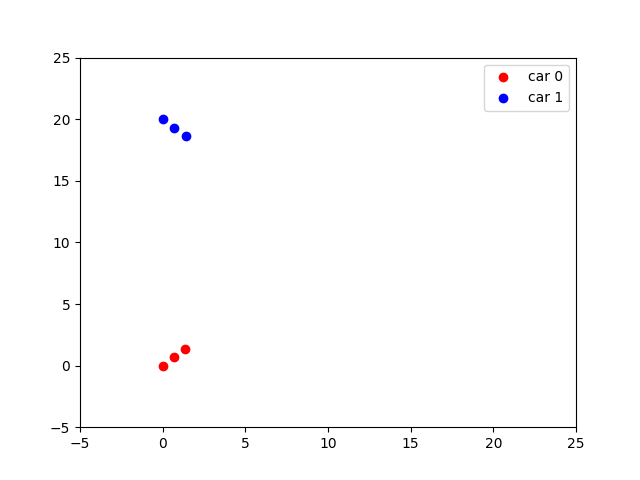
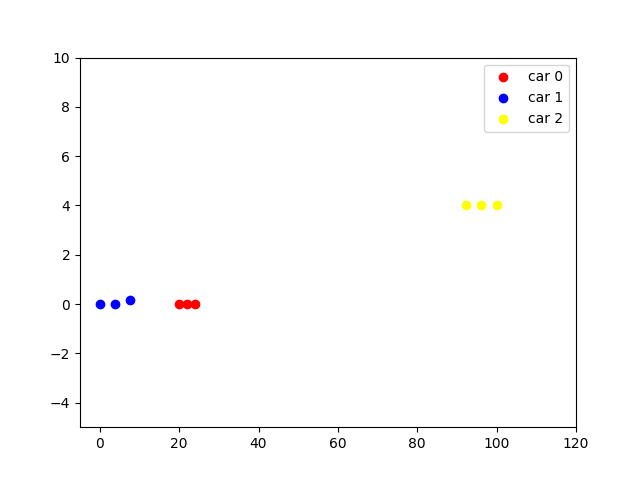
Finished a version of 3 car scenario.

diff --git a/CFS_problem.py b/CFS_problem.py
@@ -2,9 +2,11 @@ import numpy as np
 from numpy import linalg as LA
 
 
-def define_path():
+def define_path(dt):
     '''
     Define initial reference paths for multiple cars.
+    Args:
+        dt: Time step between two path points of a car.
     Return:
         multi_path: Shape: num_cars x nsteps x 2. Paths for number of cars.
     Note:
@@ -13,22 +15,22 @@ def define_path():
     '''
     multi_path = []
     # Define path 0
-    path_seg_0 = np.array([[0, 0], [20, 20]])
-    path_0 = get_path(path_seg_0, 1)
+    path_seg_0 = np.array([[20, 0], [70, 0]])
+    resolution_0 = 2                                     # Resolution indicates nominal speed is resolution/dt (m/s)
+    path_0 = get_path(path_seg_0, resolution_0)          
     multi_path.append(path_0)
     # Define path 1
-    path_seg_1 = np.array([[0, 20], [20, 0]])
-    path_1 = get_path(path_seg_1, 1)
-    # print(path_1.shape)
-    # print(path_1)
+    path_seg_1 = np.array([[0, 0.01], [100, 0.01]])
+    resolution_1 = 4
+    path_1 = get_path(path_seg_1, resolution_1)          # Resolution indicates nominal speed is resolution/dt (m/s)
     multi_path.append(path_1)
 
-    # # Define path 2
-    # path_seg_2 = np.array([[0, 30], [0, 130]])
-    # path_2 = get_path(path_seg_2, 3)
-    # # print(path_2.shape)
-    # # print(path_2)
-    # multi_path.append(path_2)
+    # Define path 2
+    path_seg_2 = np.array([[100, 4], [0, 4]])
+    resolution_2 = 4
+    path_2 = get_path(path_seg_2, resolution_2)
+    multi_path.append(path_2)
+
     # # Define path 3
     # path_seg_3 = np.array([[3.5, 15], [3.5, 115]])
     # path_3 = get_path(path_seg_3, 3)
@@ -108,16 +110,17 @@ def get_path(path_segments_array, resolution):
 
 
 def Setup_problem(multi_path):
-    # nstep = 100;
-    # dim = 4;
-
-    # start_1 = [0, 0];
-    # ending_1 = [200, 0]; 
-
-
-    # start_2 = [100, 0.5];
-    # ending_2 = [100, 0.5];
-    # margin = 0.25; 
+    '''
+    Args:
+        multi_path: Predefined original reference path for multiple cars.
+    Return:
+        Qref: Cost matrix with regard to original reference path.
+        Qabs: Cost matrix with regard to new planned path.
+        nstep: Number of steps.
+        dim: Dimension of reference path. dim = num_cars * 2.
+        oripath: Original path.
+        I_2: 4x4 identical matrix.
+    '''
     I_2 = np.array([[1, 0, -1, 0],
         [0, 1, 0, -1],
         [-1, 0, 1, 0],
@@ -125,9 +128,6 @@ def Setup_problem(multi_path):
 
     dim = multi_path.shape[0] * 2
     nstep = multi_path[0].shape[0]
-
-
-    #print(I_2)
 
     refpath = []
     for i in range(nstep):
@@ -138,17 +138,6 @@ def Setup_problem(multi_path):
 
     refpath = np.array([refpath]).T
     oripath = refpath
-
-    # for i in refpath:
-    # 	print(i, '\n')
-
-    # print("Path 1 is: ", path_1)
-    # print("refpath is of shape: ", refpath.shape)
-    # print("refpath is: ", refpath)
-
-    # nstep = 4
-    # dim = 2
-
 
     #Define the cost matrix
     dim = dim
@@ -167,37 +156,8 @@ def Setup_problem(multi_path):
 
 
     #Define the weights
-    cref = np.array([0.1, 0, 0])
-    cabs = np.array([0, 0, 100])
-
-    Qref = Q1*cref[0] + Q2*cref[1] + Q3*cref[2]
-    Qabs = Q1*cabs[0] + Q2*cabs[1] + Q3*cabs[2]
-
-    # print(Qref)
-    # print(Qref.shape)
-
-    #Fix the start and end points of all nine agents. Also, fix the path of agent 2 to 
-    #be always at the initial position.
-    # Aeq = np.zeros((2*dim + (nstep-2)*(int(dim/2)), nstep*dim))
-    # beq = np.zeros((2*dim + (nstep-2)*(int(dim/2)), 1))
-
-    # # Aeq = np.zeros((2*dim), nstep*dim))
-    # # beq = np.zeros((2*dim), 1))
-    
-    # Aeq[0:dim, 0:dim] = np.eye(dim)
-    # Aeq[dim:2*dim, (nstep-1)*dim:nstep*dim] = np.eye(dim)
-    # beq[0:2*dim] = np.concatenate((oripath[0:4], oripath[len(oripath)-4:]), axis = 0)
-    # #print(Aeq.shape)
-
-    # for i in range(1, nstep-1):
-    #     Aeq[2*dim + int(dim/2)*(i-1), dim*i + 2] = 1
-    #     Aeq[2*dim + int(dim/2)*(i-1) + 1, dim*i + 3] = 1
-    #     beq[2*dim + int(dim/2)*(i-1) : 2*dim + int(dim/2)*(i-1) + 2] = oripath[dim*i+2 : dim*i+4]
-
-
+    w = np.array([0.1, 0, 100])
+    Qref = Q1*w[0]
+    Qabs = Q2*w[1] + Q3*w[2]
 
     return Qref, Qabs, nstep, dim, oripath, I_2
-
-
-
-

diff --git a/CFS_planner.py b/CFS_planner.py
@@ -52,14 +52,30 @@ def two_car_distance(path1, path2):
     nstep = path1.shape[0]
     distance = []
     for i in range(nstep):
+        # print("----------", i, "----------")
         pts1 = path1[i, :]
         pts2 = path2[i, :]
+        # print(pts1, pts2, pts1-pts2)
         dist = np.linalg.norm(pts1-pts2)
+        # print(dist)
         distance.append(dist)
-    # plt.plot(distance)
-    # plt.show()
     print(np.min(distance))
     return distance
+
+def get_velocity(path, dt):
+    '''
+    Args:
+        path: Trajectory of a car.
+    Return:
+        velocity: Calculated velocity of the car based on the path.
+    '''
+    velocity = []
+    nstep = path.shape[0]
+    # print("Reference speed: {}".format(100/nstep))
+    for i in range(nstep-1):
+        vel_step = np.linalg.norm(path[i] - path[i+1]) / dt
+        velocity.append(vel_step)
+    return velocity
 
 def get_line(x1, y1, x2, y2):
     '''
@@ -87,8 +103,8 @@ def path_rendering(pathnew, num):
     car_path = np.zeros((num, nstep, 2))
     images = []
     for i in range(num):
-        car_path[i][:, 0] = pathnew[2*i : : 4]
-        car_path[i][:, 1] = pathnew[2*i+1 : : 4]
+        car_path[i][:, 0] = pathnew[2*i : : num*2]
+        car_path[i][:, 1] = pathnew[2*i+1 : : num*2]
     
     fig = plt.figure()
     for i in range(nstep):
@@ -98,8 +114,8 @@ def path_rendering(pathnew, num):
         for j in range(num):
             x[j] = car_path[j][i, 0]
             y[j] = car_path[j][i, 1]
-            plt.xlim(-5, 25)
-            plt.ylim(-5, 25)
+            plt.xlim(-5, 120)
+            plt.ylim(-5, 10)
             plt.scatter(x[j], y[j], marker = 'o', color = COLOR[j])
             plot_legend.append('car {}'.format(j))
         plt.legend(plot_legend, loc = 'upper right')
@@ -148,9 +164,15 @@ def Plan_trajectory(MAX_ITER, multi_path, mini_distance):
                     b = -mini_distance**2 - 1/2 * (A_step @ ref_points)
                     A = -A_step
 
-                    #print(A[0, 0:2].shape, x[dim*j:dim*(j+1)][2*l:2*(l+1)].shape, b.shape)
                     cons = A[0, 0:2].reshape(1,2)@x[dim*j:dim*(j+1)][2*l:2*(l+1)] + A[0, 2:4].reshape(1,2)@x[dim*j:dim*(j+1)][2*m:2*(m+1)] <= b
                     constraints.append(cons)
+            
+            # Define lane keeping constraint for the car being overtaked
+            lane_keeping_id = [0, 2]
+            for k in lane_keeping_id:
+                cons = x[dim*j + 2*k+1] == x_ref_1[2*k+1]
+                constraints.append(cons)
+            
             
             # Define priority constraint
             if j < nstep-1:
@@ -225,50 +247,26 @@ def Plan_trajectory(MAX_ITER, multi_path, mini_distance):
 
 def main():
     MAX_ITER = 10
-    num_cars = 2
-    multi_path = define_path()
-
-    # print("Converted shape is: {}".format(multi_path.shape))
-
-    # for i in range(len(multi_path)):
-    #     multi_path[i] = multi_path[i][0:35, :]
-    #     print(multi_path[i].shape)
-
-
+    num_cars = 3
+    dt = 0.2
+    multi_path = define_path(dt)
     pathnew = Plan_trajectory(MAX_ITER, multi_path, 3)
     
     nstep = int(pathnew.shape[0] / (num_cars*2))
     pathnew1 = np.zeros((nstep, 2))
     pathnew2 = np.zeros((nstep, 2))
-    pathnew1[:, 0] = pathnew[0 : : 4]
-    pathnew1[:, 1] = pathnew[1 : : 4]
-    pathnew2[:, 0] = pathnew[2 : : 4]
-    pathnew2[:, 1] = pathnew[3 : : 4]
+    pathnew1[:, 0] = pathnew[2 : : 6]
+    pathnew1[:, 1] = pathnew[3 : : 6]
+    pathnew2[:, 0] = pathnew[4 : : 6]
+    pathnew2[:, 1] = pathnew[5 : : 6]
+    # print(pathnew1[0, :], pathnew2[0, :])
     distance = two_car_distance(pathnew1, pathnew2)
-    path_rendering(pathnew, num_cars)
+    # path_rendering(pathnew, num_cars)
     
-
+    vel = get_velocity(pathnew2, dt)
+    # print(sum(vel)/len(vel))
+    # print(vel)
     
-
 
 if __name__ == "__main__":
     main()
-
-
-
-
-
-
-
-
-
-
-
-
-
-
-
-
-
-
-
